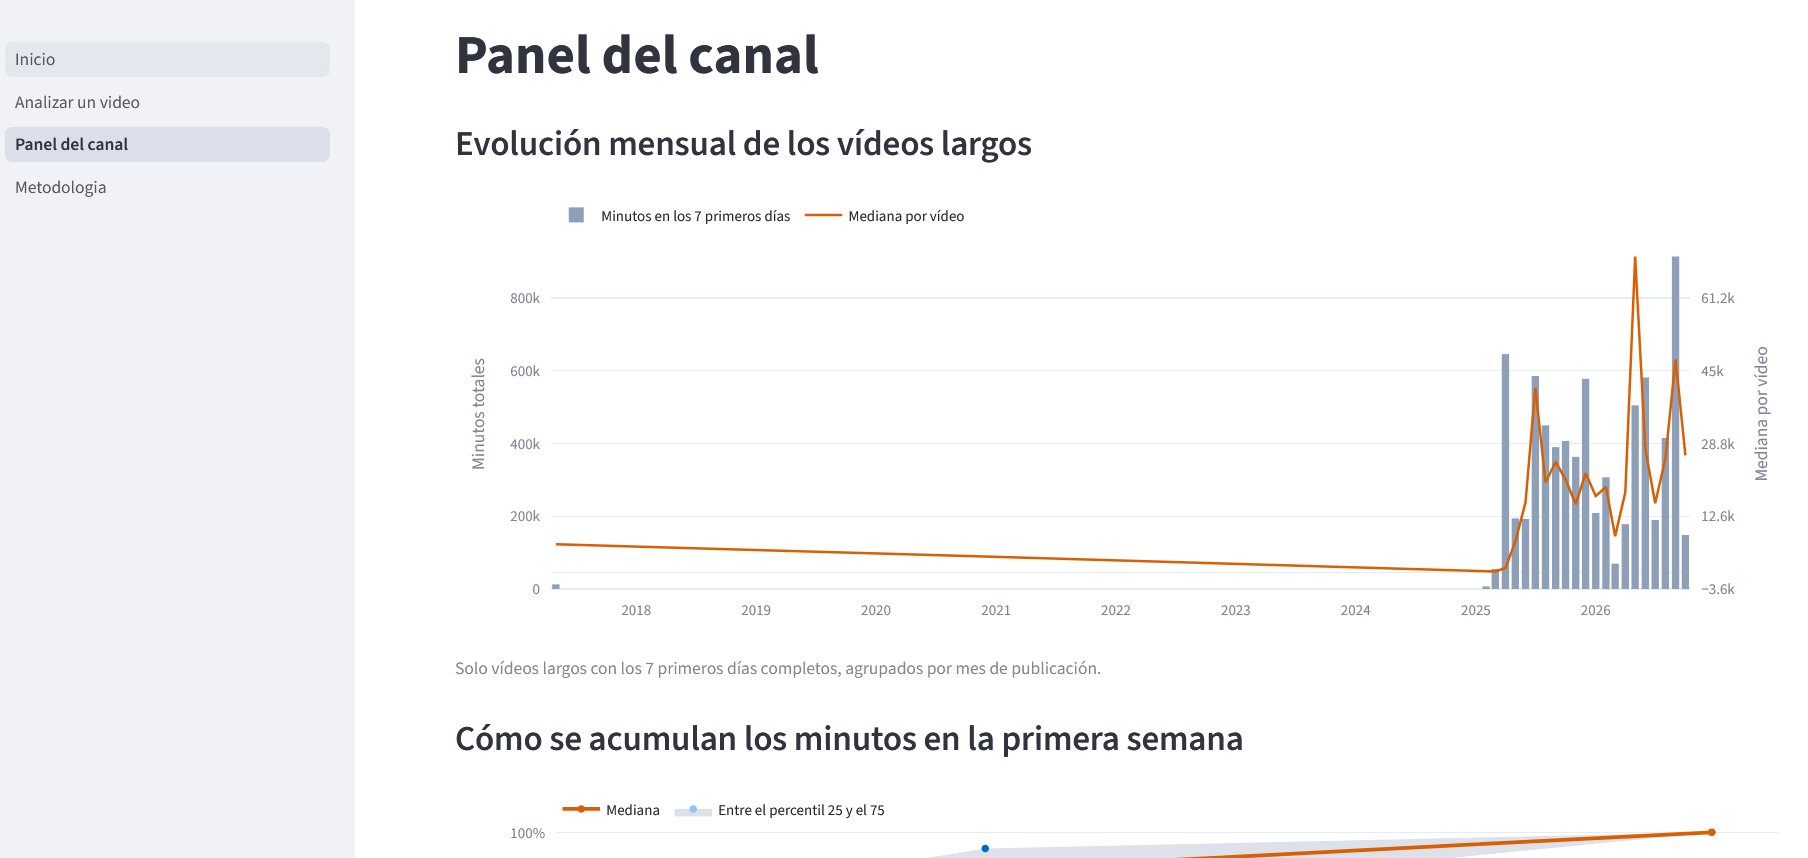
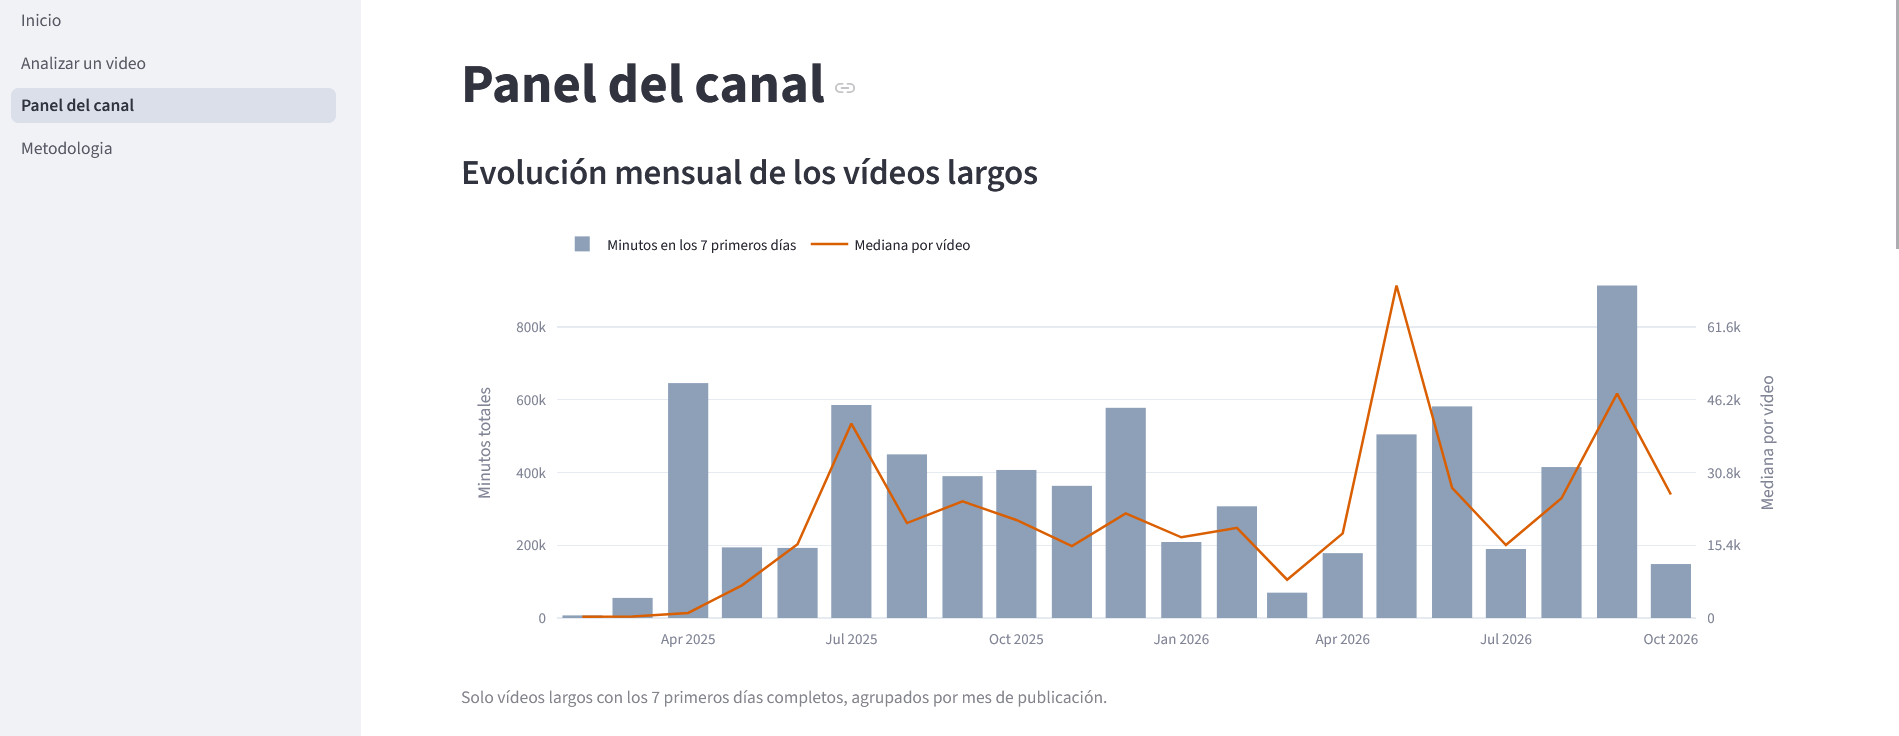
filtro panel fix

diff --git a/app/utilidades.py b/app/utilidades.py
@@ -20,6 +20,9 @@ RUTA_PANEL = RAIZ / "data" / "processed" / "panel_diario.csv"
 # Desde esta fecha YouTube cuenta como visualización la reproducción desde el primer fotograma
 FECHA_CAMBIO_VISUALIZACION = pd.Timestamp("2026-08-24")
 
+# Población del modelo: los dos vídeos de 2017 son casos aislados y quedan fuera, como en el cuaderno 03
+FECHA_INICIO_MODELO = pd.Timestamp("2025-01-01", tz="UTC")
+
 # Resultados del cuaderno 03_modelo (sección 17), evaluados con los 64 vídeos más recientes
 RESULTADOS_PRUEBA = pd.DataFrame(
     {
@@ -91,6 +94,10 @@ def cargar_paquete_modelo() -> dict:
 
 
 def largos_con_ventana_7d(maestra: pd.DataFrame) -> pd.DataFrame:
-    """Vídeos largos con los 7 primeros días completos, ordenados por fecha de publicación."""
-    largos = maestra[(maestra["formato"] == "long") & maestra["minutos_7d"].notna()]
+    """Vídeos largos con los 7 primeros días completos publicados desde 2025, ordenados por fecha."""
+    largos = maestra[
+        (maestra["formato"] == "long")
+        & maestra["minutos_7d"].notna()
+        & (maestra["published_at"] >= FECHA_INICIO_MODELO)
+    ]
     return largos.sort_values("published_at").reset_index(drop=True)

diff --git a/app/pages/2_Panel_del_canal.py b/app/pages/2_Panel_del_canal.py
@@ -39,8 +39,8 @@ figura.add_scatter(
     x=mensual["mes"], y=mensual["mediana_por_video"], name="Mediana por vídeo", yaxis="y2", line=dict(color="#d95f02")
 )
 figura.update_layout(
-    yaxis=dict(title="Minutos totales"),
-    yaxis2=dict(title="Mediana por vídeo", overlaying="y", side="right"),
+    yaxis=dict(title="Minutos totales", rangemode="tozero"),
+    yaxis2=dict(title="Mediana por vídeo", overlaying="y", side="right", rangemode="tozero"),
     legend=dict(orientation="h", y=1.12),
     margin=dict(l=10, r=10, t=10, b=10),
     height=360,
